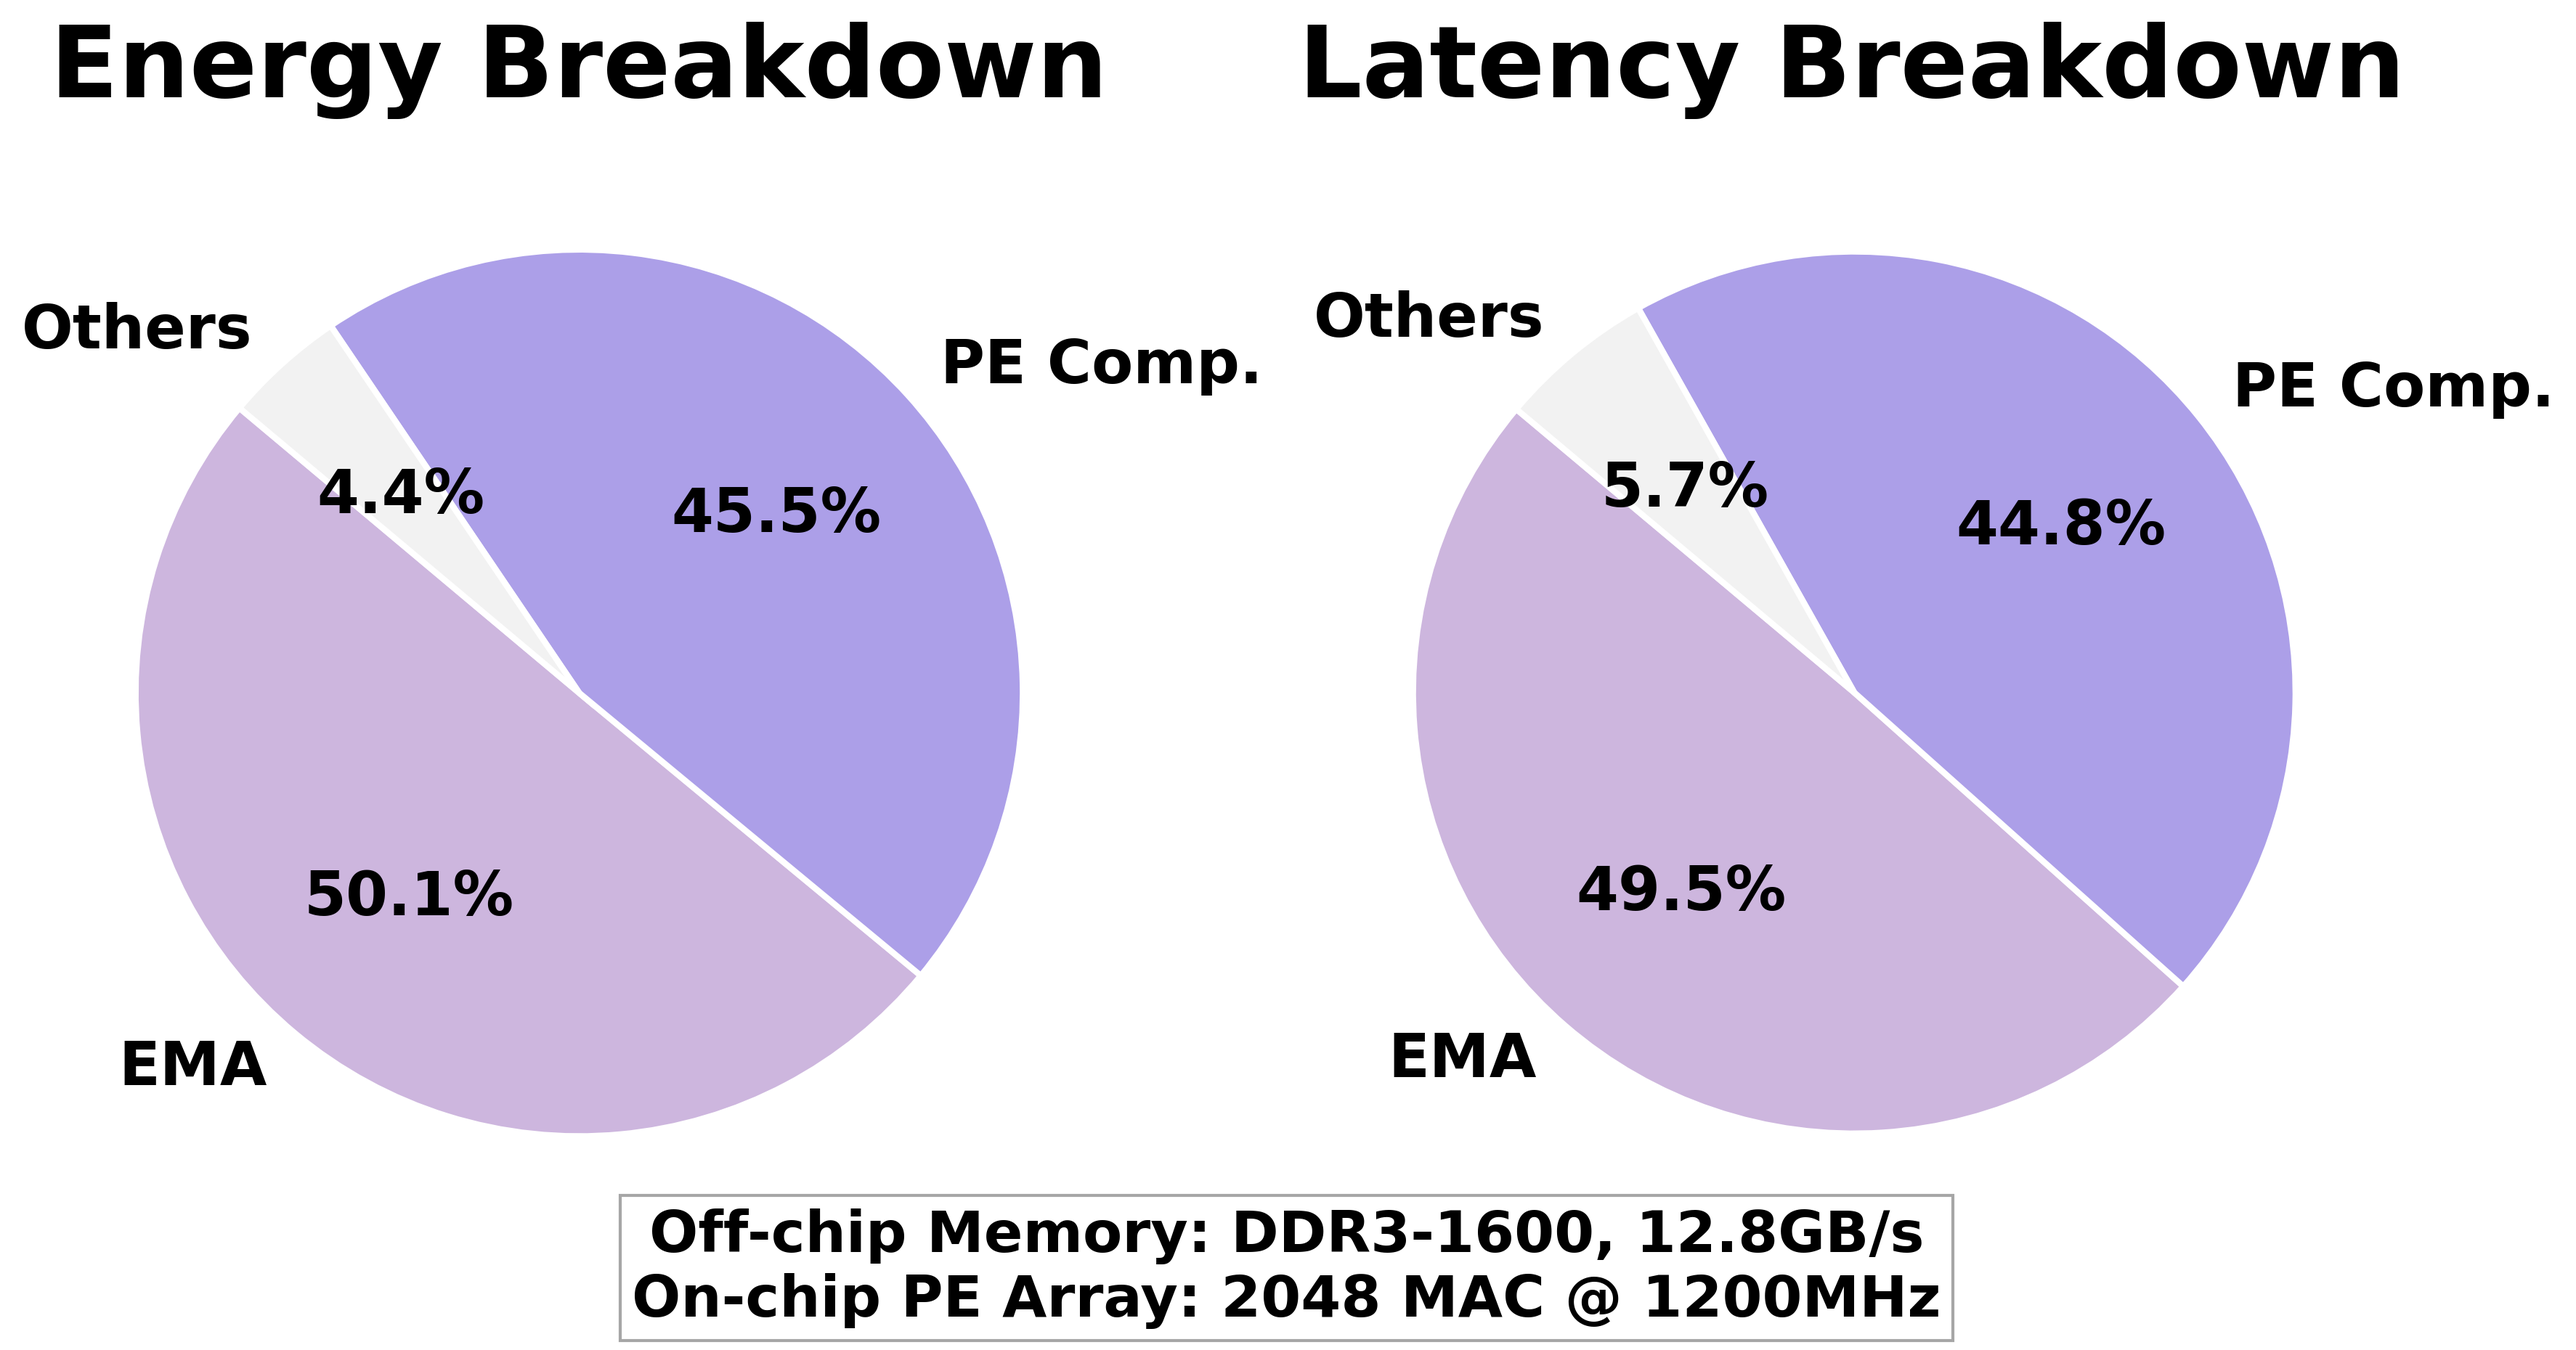
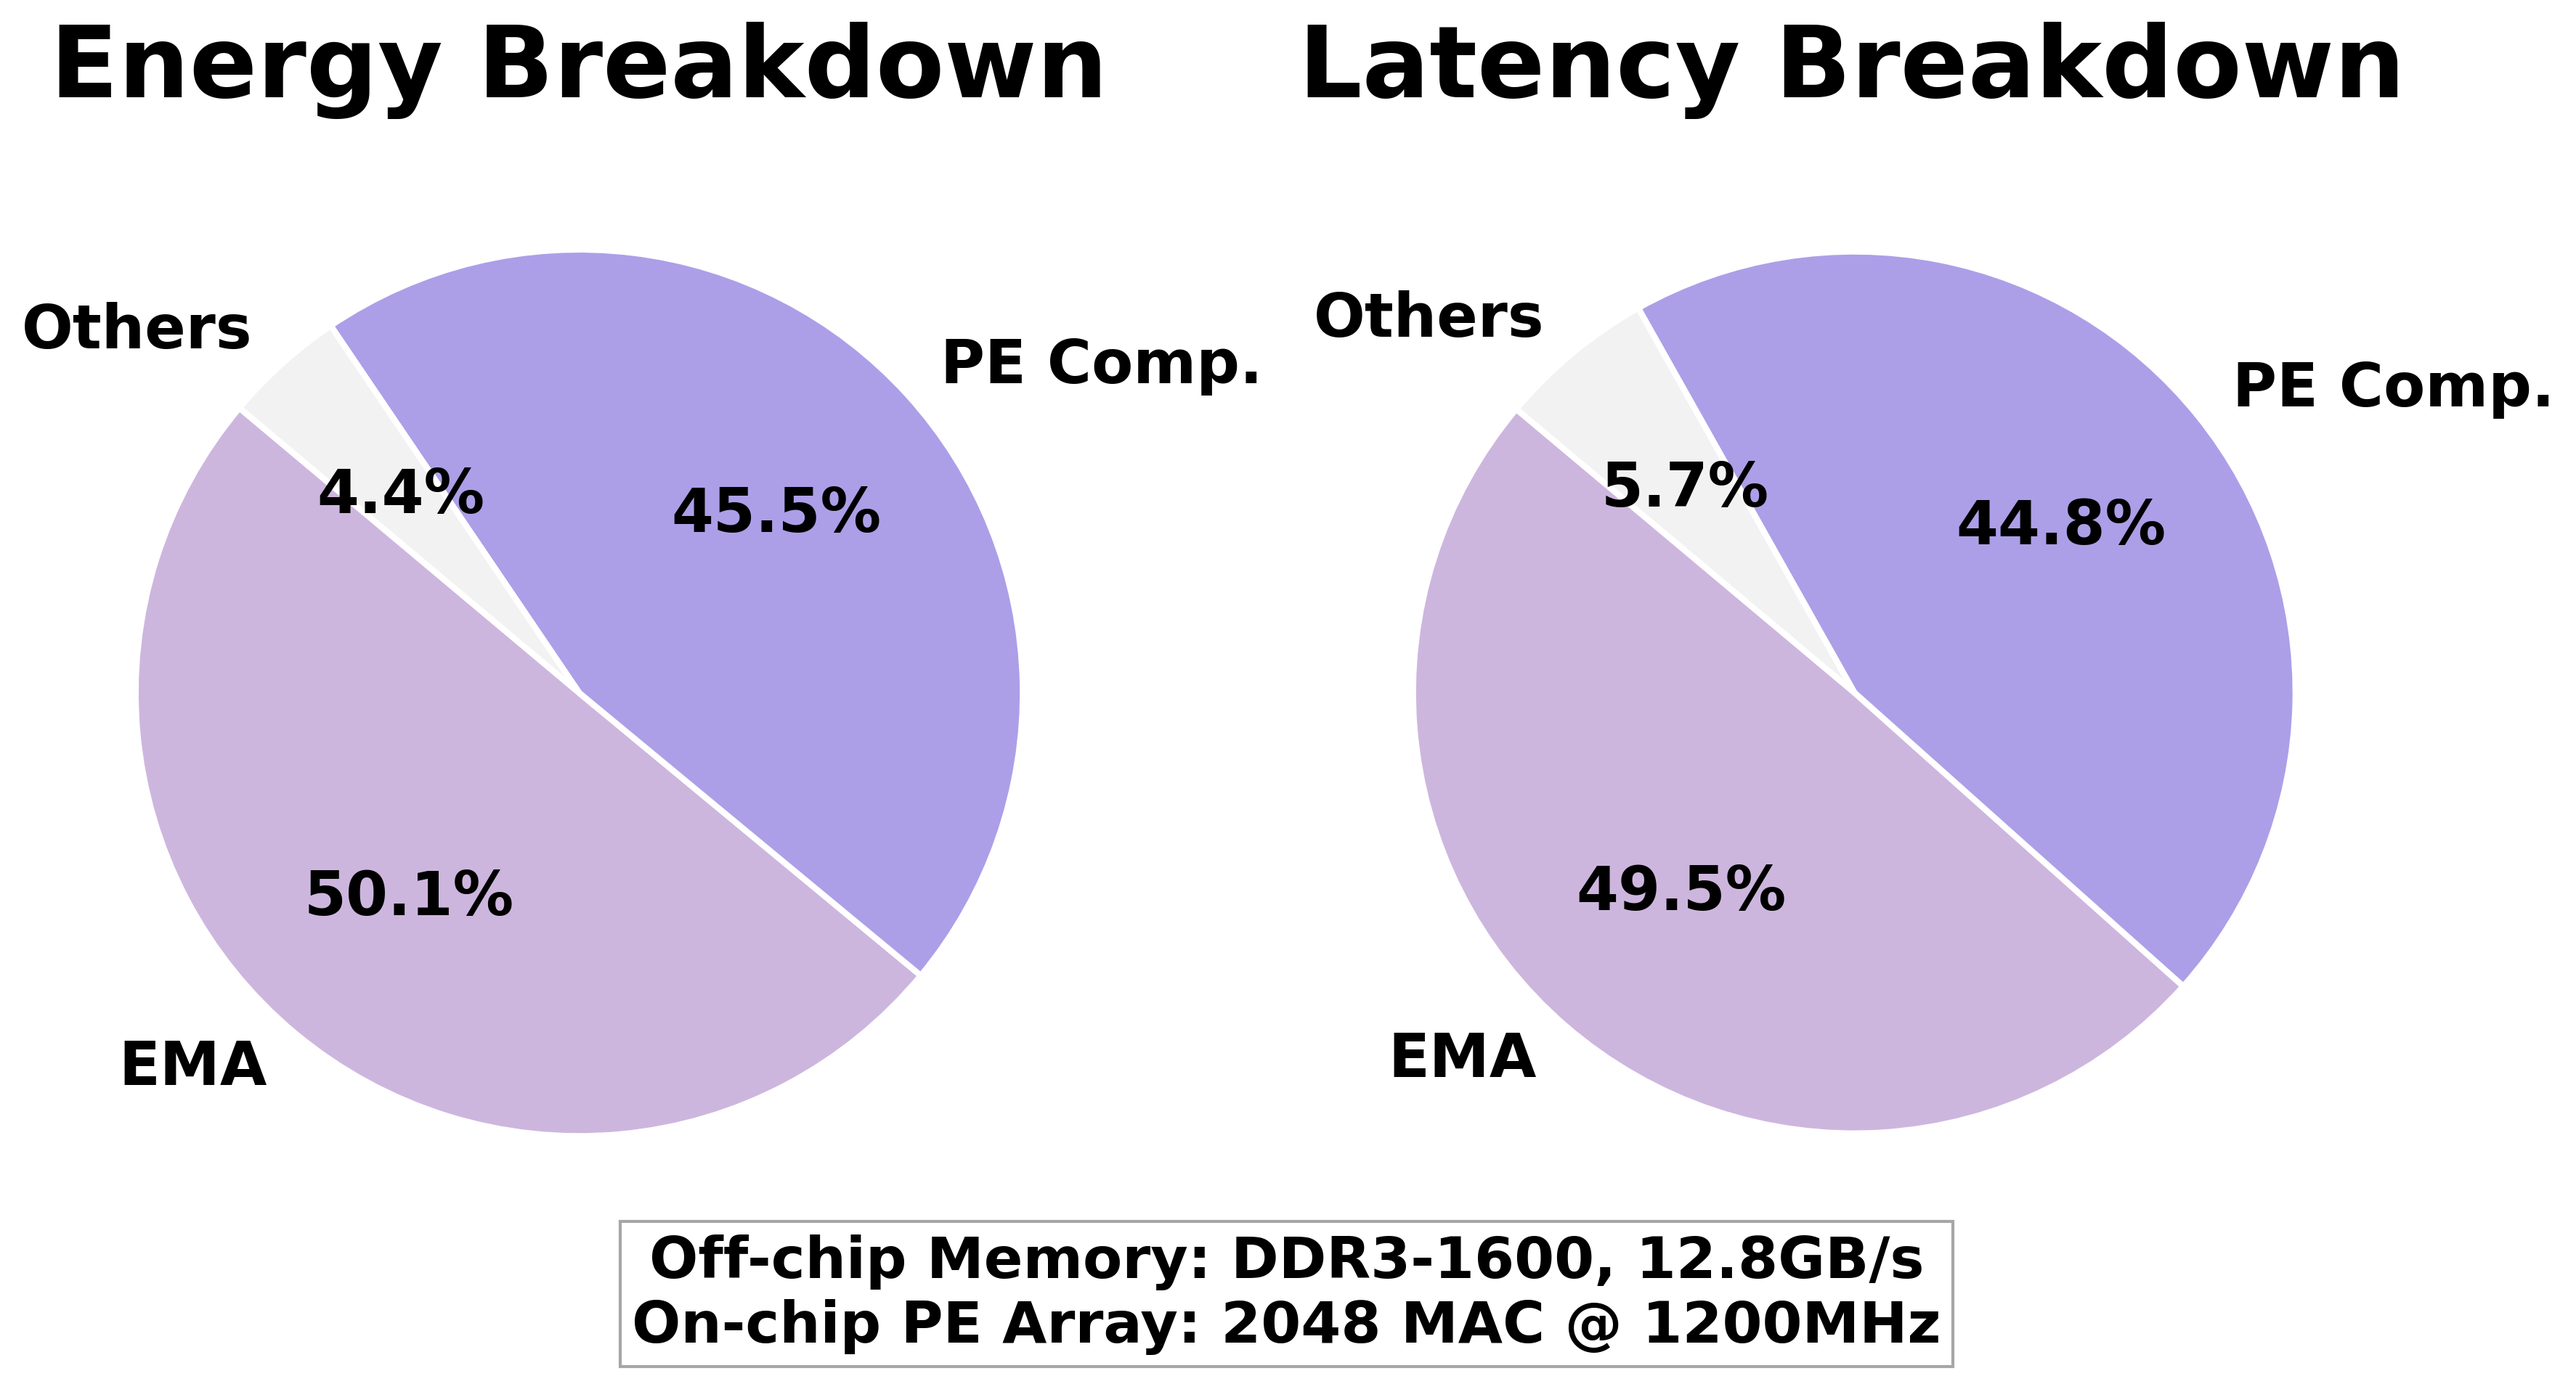
fin v8: update final

diff --git a/final/eye/plot_tests.py b/final/eye/plot_tests.py
@@ -1,0 +1,83 @@
+import matplotlib.pyplot as plt
+import numpy as np
+
+def plot_eye_diagram():
+    """
+    读取8个txt文件创建4x2眼图
+    """
+    # 定义文件列表和对应的标题
+    channel_lengths = ['5mm', '10mm', '25mm', '50mm']
+    test_groups = [1, 2]
+    
+    # 创建4行2列的子图
+    fig, axes = plt.subplots(4, 2, figsize=(16, 16))
+    
+    base = 16
+    
+    for row, length in enumerate(channel_lengths):
+        for col, group in enumerate(test_groups):
+            ax = axes[row, col]
+            
+            # 读取对应的数据文件
+            filename = f'./data/{length}_{group}.txt'
+            data = np.loadtxt(filename)
+            
+            # 第一列是Vref
+            vref = data[:, 0]
+            
+            # 后面32列是两组16 lane的数据
+            group1_data = data[:, 1:17]   # 前16列
+            group2_data = data[:, 17:33]  # 后16列
+            
+            # 生成颜色映射
+            colors = plt.cm.rainbow(np.linspace(0, 1, 16))
+            
+            # 左半边：第一组16个lane的眼图（映射到负CPI区域）
+            for i in range(16):
+                lane_data = group1_data[:, i]
+                # 将数据映射到左半边（负值区域）
+                lane_data_left = -np.abs(lane_data)
+                ax.plot(lane_data_left, vref, color=colors[i], linewidth=1.5, alpha=0.8, 
+                        marker='o', markersize=4, markerfacecolor=colors[i], markeredgecolor='none')
+            
+            # 右半边：第二组16个lane的眼图（映射到正CPI区域）
+            for i in range(16):
+                lane_data = group2_data[:, i]
+                # 将数据映射到右半边（正值区域）
+                lane_data_right = np.abs(lane_data)
+                ax.plot(lane_data_right, vref, color=colors[i], linewidth=1.5, alpha=0.8,
+                        marker='o', markersize=4, markerfacecolor=colors[i], markeredgecolor='none')
+            
+            # 添加中心参考线
+            ax.axvline(x=0, color='orange', linewidth=2, alpha=0.8)
+            ax.axhline(y=0, color='gray', linewidth=1, alpha=0.5)
+            
+            # 设置图形属性
+            ax.set_xlabel('CPI', fontsize=base, fontweight='bold')
+            ax.set_ylabel('Vref', fontsize=base, fontweight='bold', labelpad=-5)
+            ax.grid(True, alpha=0.3)
+            ax.set_xlim(-32, 32)
+            ax.set_ylim(-25, 25)
+            
+            # 设置刻度
+            ax.set_xticks(np.arange(-32, 33, 8))  # 减少刻度密度
+            ax.set_yticks(np.arange(-24, 25, 8))
+            
+            # 设置刻度字号
+            ax.tick_params(axis='x', labelsize=base-4)
+            ax.tick_params(axis='y', labelsize=base-4)
+            
+            # 设置标题
+            group_index = group - 1  # 转换为0和1
+            title = f'Digital Eye [Channel Length = {length}] Test Group {group_index}'
+            ax.set_title(title, fontsize=base, fontweight='bold', pad=10)
+    
+    # 调整子图间距
+    plt.subplots_adjust(left=0.1, right=0.95, top=0.95, bottom=0.05, hspace=0.4, wspace=0.45)
+    plt.savefig('./outputs/all_eye_diagrams.png', dpi=400, bbox_inches='tight')
+    print("所有眼图已保存到: ./outputs/all_eye_diagrams.png")
+    plt.show()
+
+if __name__ == "__main__":
+    # 绘制所有眼图
+    plot_eye_diagram()

diff --git a/final/eye/plot_25mm.py b/final/eye/plot_25mm.py
@@ -1,0 +1,84 @@
+import matplotlib.pyplot as plt
+import numpy as np
+
+def plot_25mm_eye_diagrams():
+    """
+    绘制25mm的两个眼图，分别保存
+    """
+    channel_length = '25mm'
+    test_groups = [1, 2]
+    
+    base = 20
+    
+    for group in test_groups:
+        # 创建单个图形
+        fig, ax = plt.subplots(1, 1, figsize=(10, 5.5))
+        
+        # 读取对应的数据文件
+        filename = f'./data/{channel_length}_{group}.txt'
+        data = np.loadtxt(filename)
+        
+        # 第一列是Vref
+        vref = data[:, 0]
+        
+        # 后面32列是两组16 lane的数据
+        group1_data = data[:, 1:17]   # 前16列
+        group2_data = data[:, 17:33]  # 后16列
+        
+        # 生成颜色映射
+        colors = plt.cm.rainbow(np.linspace(0, 1, 16))
+        
+        # 左半边：第一组16个lane的眼图（映射到负CPI区域）
+        for i in range(16):
+            lane_data = group1_data[:, i]
+            # 将数据映射到左半边（负值区域）
+            lane_data_left = -np.abs(lane_data)
+            ax.plot(lane_data_left, vref, color=colors[i], linewidth=2, alpha=0.8, 
+                    marker='o', markersize=5, markerfacecolor=colors[i], markeredgecolor='none')
+        
+        # 右半边：第二组16个lane的眼图（映射到正CPI区域）
+        for i in range(16):
+            lane_data = group2_data[:, i]
+            # 将数据映射到右半边（正值区域）
+            lane_data_right = np.abs(lane_data)
+            ax.plot(lane_data_right, vref, color=colors[i], linewidth=2, alpha=0.8,
+                    marker='o', markersize=5, markerfacecolor=colors[i], markeredgecolor='none')
+        
+        # 添加中心参考线
+        ax.axvline(x=0, color='orange', linewidth=3, alpha=0.8)
+        ax.axhline(y=0, color='gray', linewidth=1, alpha=0.5)
+        
+        # 设置图形属性（无标题）
+        if group == 1:
+            # 第一个图显示全称
+            ax.set_xlabel('CPI (Clock-path Phase Interpolator)', fontsize=base+2, fontweight='bold')
+        else:
+            # 第二个图只显示缩写
+            ax.set_xlabel('CPI', fontsize=base+2, fontweight='bold')
+        
+        ax.set_ylabel('Vref', fontsize=base+6, fontweight='bold', labelpad=-8)
+        ax.grid(True, alpha=0.3)
+        ax.set_xlim(-32, 32)
+        ax.set_ylim(-25, 25)
+        
+        # 设置刻度
+        ax.set_xticks(np.arange(-32, 33, 8))
+        ax.set_yticks(np.arange(-24, 25, 8))
+        
+        # 设置刻度字号
+        ax.tick_params(axis='x', labelsize=base)
+        ax.tick_params(axis='y', labelsize=base)
+        
+        # 调整布局
+        plt.tight_layout()
+        
+        # 保存文件
+        output_filename = f'./outputs/{channel_length}_{group-1}.png'
+        plt.savefig(output_filename, dpi=400, bbox_inches='tight')
+        print(f"眼图已保存到: {output_filename}")
+        
+        plt.close()  # 关闭当前图形
+
+if __name__ == "__main__":
+    # 绘制25mm眼图
+    plot_25mm_eye_diagrams()

diff --git a/final/final_analysis.py b/final/final_analysis.py
@@ -26,7 +26,7 @@ def train():
     sr_path = '../onnx/osr_simp_400_400_small.onnx'
     
     optimizations = {}
-    dataset = 0
+    dataset = 1
     nerf_config = {
         'H': 800 if dataset == 0 else 756,
         'W': 800 if dataset == 0 else 1008,
@@ -54,7 +54,7 @@ def train():
     # fine: 2803.409135          9537.462963            7884.7332
     # coarse shared: 90.114985         12559.488186           104.146843
     hardware_configurations = {
-        'Mode': 1, # 0: efficiency; 1: performance; 2: profile 1GHz
+        'Mode': 0, # 0: efficiency; 1: performance; 2: profile 1GHz # 3: new eff
         'MACs': 2048,
         'Tm': 16,
         'Trc': 16,
@@ -87,12 +87,17 @@ def train():
         hardware_configurations['OP Energy'] = 0.22 * 1e-12 / mac_scaling
         hardware_configurations['SRAM Energy'] = 2.430 * (0.22 / 0.273) * 1e-12 / sram_scaling
         hardware_configurations['UCIE IDLE Power'] = 187.10 * 1e-3 / (0.22 / 0.105)
-    else:
+    elif hardware_configurations['Mode'] == 0:
         hardware_configurations['AI Core Frequency'] = 800 * 1e6
-        hardware_configurations['OP Energy'] = 0.105 * 1e-12 / mac_scaling
-        hardware_configurations['SRAM Energy'] = 0.897 * 1e-12 / sram_scaling
+        hardware_configurations['OP Energy'] = 0.105 * 1e-12 / mac_scaling # 209 * 265 / (800* 1e6) / 655360 * 1e12
+        hardware_configurations['SRAM Energy'] = 0.897 * 1e-12 / sram_scaling # 127.5 * 265 / (800 * 1e6) / 47104 * 1e12
         # hardware_configurations['UCIE IDLE Power'] = 187.10 * 1e-3 / (0.273 / 0.105)
-        hardware_configurations['UCIE IDLE Power'] = 187.10 * 1e-3
+        hardware_configurations['UCIE IDLE Power'] = 187.10 * 1e-3 / 1.125
+    else:
+        hardware_configurations['AI Core Frequency'] = 600 * 1e6 
+        hardware_configurations['OP Energy'] = 0.0826 * 1e-12 / mac_scaling # 197.5 * 265 / (600 * 1e6) / (47104*8.5+655360) * 1e12 * 1e-3
+        hardware_configurations['SRAM Energy'] = 0.702 * 1e-12 / sram_scaling # (197.5*1e-3*265/(600*1e6) - 0.0826 * 655360 * 1e-12) / 47104 * 1e12
+        hardware_configurations['UCIE IDLE Power'] = 187.10 * 1e-3 / 1.25
     
     
     results = {
@@ -176,6 +181,7 @@ def train():
     
     results['Baseline']['OP'] = (coarse_mac_ops + fine_mac_ops) * H * W
     results['Baseline']['FPS'] = 1 / (baseline_dram_latency + nerf_total_mac_latency)
+    results['Baseline']['FPS'] = 1 / (baseline_dram_latency * 0.5 + nerf_total_mac_latency)
     
     patch_size = 100
     total_patches_nerf = H * W / patch_size

diff --git a/figure1/draw_breakdown_hy.py b/figure1/draw_breakdown_hy.py
@@ -57,7 +57,7 @@ axs[1].axis('equal')
 
 # 在图的空白处添加注释
 fig.text(
-	0.5, 0.02,
+	0.5, 0.40,
 	'Off-chip Memory: DDR3-1600, 12.8GB/s\nOn-chip PE Array: 2048 MAC @ 1200MHz',
 	ha='center', va='center', fontsize=19, fontweight='bold', bbox=dict(facecolor='white', alpha=0.7, edgecolor='gray')
 )
